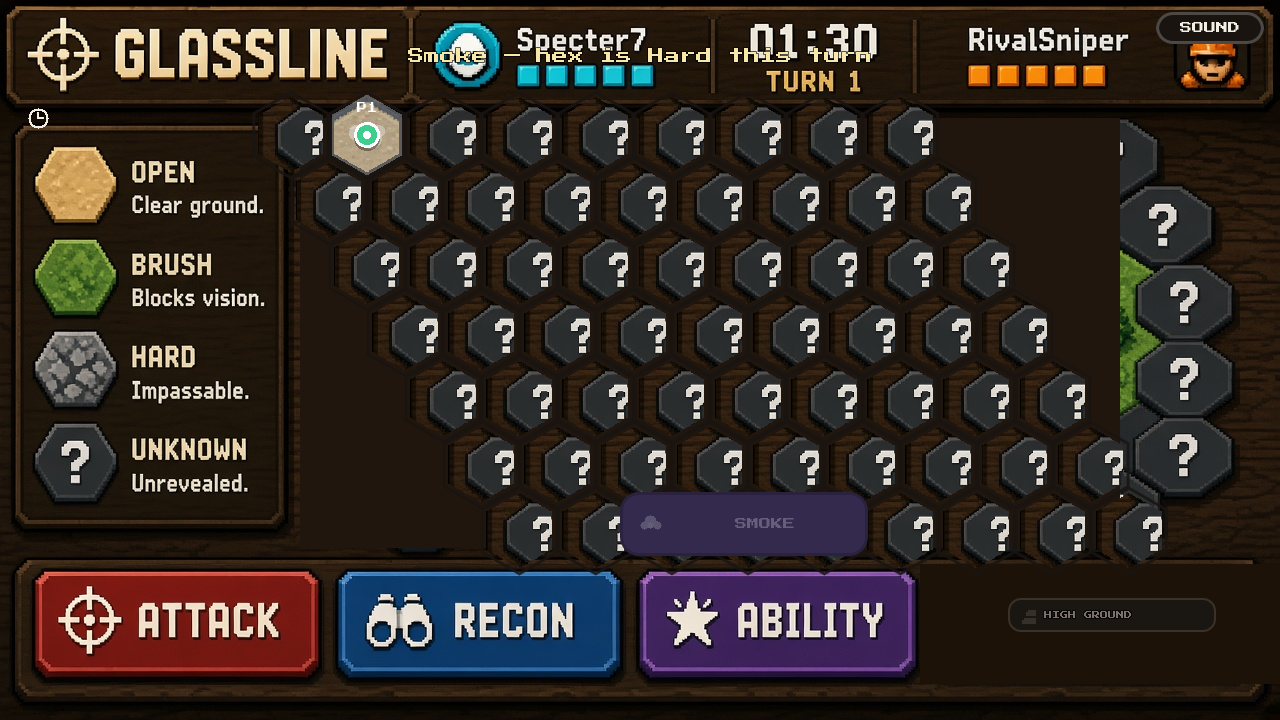
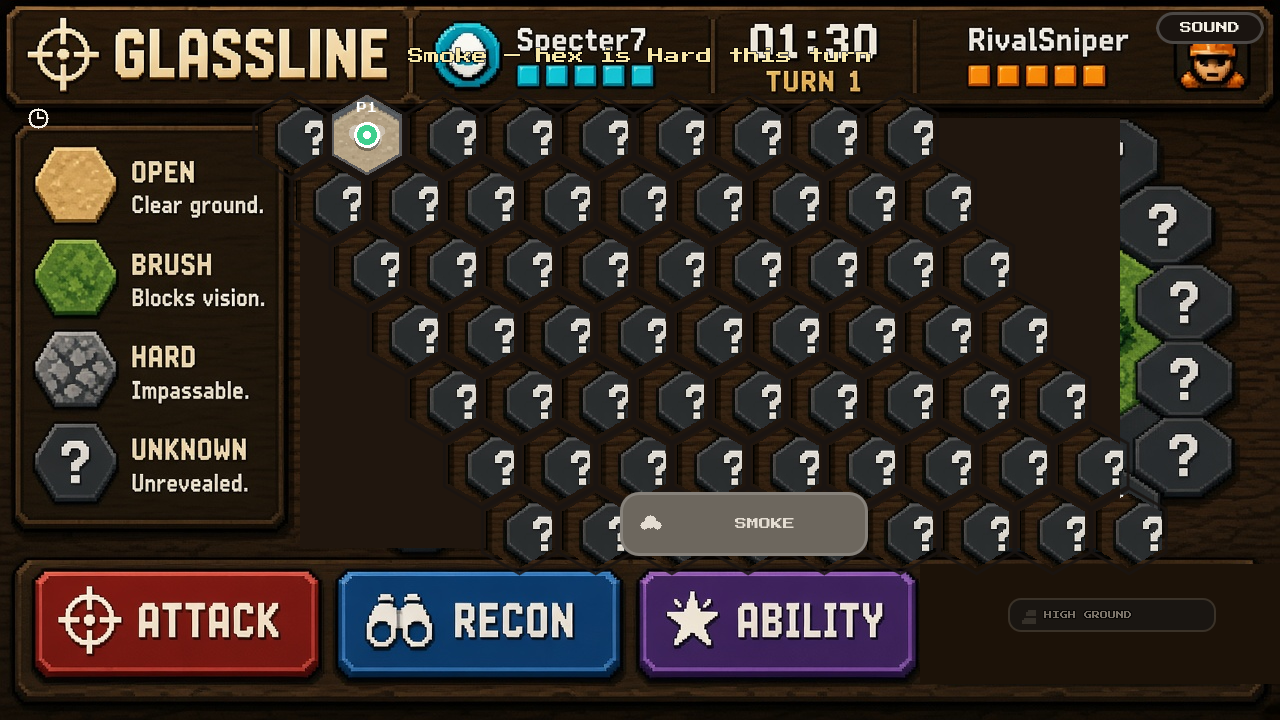
Soft P2: SMOKE spent chip grey wood
Spent Ability SMOKE chip is muted grey wood (#6d675e); available stays lit purple. Chrome only — no copy/API/art-pack change.

Changed region(s): [[0.4688, 0.6722, 0.6875, 0.7944]]

diff --git a/artifacts/SMOKE_NOTES.md b/artifacts/SMOKE_NOTES.md
@@ -16,7 +16,7 @@ LIVE source of truth: API tip `fa7285ba` on `https://glassline-api.vercel.app`.
 | `Snapshot.smoke_available()` | `you.smokeAvailable`, or `smoke_available`, or any casing. Missing → **false** |
 | `Snapshot.smoke_active()` | `you.smokeActive` bool or turns-remaining `> 0`. Same casing tolerance. Missing or match ended → **false** |
 | `Snapshot.enemy_smoke_active()` | `enemy.smokeActive` only. Does not read `you.*` and does not invent `visibleHex` |
-| Match HUD | Purple **SMOKE** chip (toy puff) above the painted ABILITY key. Lit when available. Muted when spent or when the field is absent |
+| Match HUD | **SMOKE** chip (same toy puff) above the painted ABILITY key. Available is lit hot purple. Spent, or a missing field, is grey muted wood |
 | Click | Posts only when `smoke_available()`. Otherwise no-op |
 | Your puff | Toast `Smoke — hex is Hard this turn` and a soft HARD wash on **your** hex |
 | Rival puff | Wash only if `enemy.smokeActive` and `enemy.visibleHex` are both already set. No toast |
